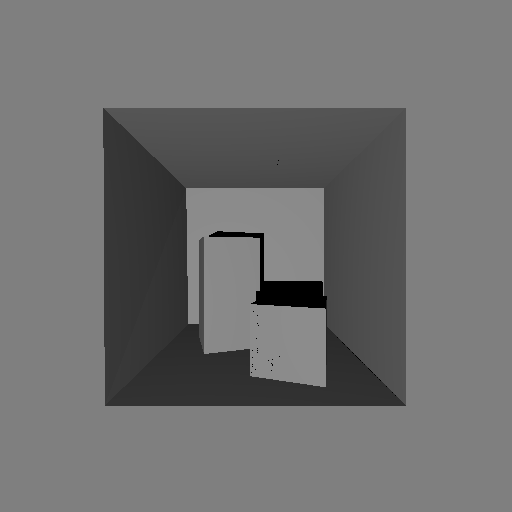
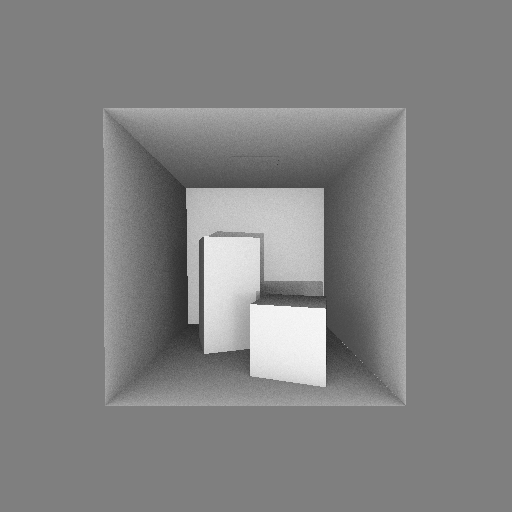
tp3: update L_i computation

Changed region(s): [[0.1875, 0.1875, 0.8125, 0.8125]]

diff --git a/projets/tp3.cpp b/projets/tp3.cpp
@@ -161,6 +161,59 @@ struct Scene
         return L_r;
     };
 
+
+    Color compute_L_r_sky(Hit hit, Color L_i) // Calcul de L_r, la lumière réfléchie par le point p        
+    {
+        // Compute global coordinates and normal
+        Triangle tri = triangles[hit.triangle_id];
+        Point p = { tri.p.x + hit.u * tri.e1.x + hit.v * tri.e2.x,
+                    tri.p.y + hit.u * tri.e1.y + hit.v * tri.e2.y,
+                    tri.p.z + hit.u * tri.e1.z + hit.v * tri.e2.z };
+        Vector n = normalize(cross(tri.e1, tri.e2));
+
+        // Compute L_r
+        Color L_r;
+        Color diffusion_color = tri.material.diffuse;
+        int N = 256;
+        
+        // Create orthonormal basis with n as Z-axis
+        Vector tangent = (std::abs(n.x) < 0.9f) ? normalize(cross(n, Vector(1, 0, 0))) : normalize(cross(n, Vector(0, 1, 0)));
+        Vector bitangent = normalize(cross(n, tangent));
+        
+        // Random number generator
+        static std::random_device hwseed;
+        static std::default_random_engine rng(hwseed());
+        std::uniform_real_distribution<float> uniform(0.0f, 1.0f);
+        
+        for (int i = 0; i < N; i++) {
+            // Uniform random sampling over hemisphere
+            float u1 = uniform(rng);
+            float u2 = uniform(rng);
+            
+            // Convert to spherical coordinates (cosine-weighted)
+            float cos_theta = std::sqrt(1.0f - u1 * u1);
+            float sin_theta = std::sqrt(u1 * u1);
+            float phi = 2.0f * M_PI * u2;
+            
+            // Generate direction in local hemisphere frame
+            Vector f = sin_theta * std::cos(phi) * tangent + 
+                    sin_theta * std::sin(phi) * bitangent + 
+                    cos_theta * n;
+            
+            Point p_eps = { p + epsilon_point(p) * normalize(n) };
+            Point q = { p_eps.x + f.x * 1000, p_eps.y + f.y * 1000, p_eps.z + f.z * 1000 };
+            bool V = visible(p_eps, q);
+            
+            // cos_theta is already part of the sampling, integrate it out
+            float dot_term = cos_theta; // Already incorporated from cosine-weighted sampling
+            
+            // Monte Carlo estimator: (1/N) * sum of samples
+            L_r = L_r + diffusion_color * V * L_i * dot_term;
+        }
+        
+        L_r = L_r / float(N);
+        return Color(L_r, 1);
+    }
 };
 
 struct Emission
@@ -246,9 +299,9 @@ int main( )
         Hit hit = scene.intersect(camera_origin, d, INFINITY);
         
         if (hit.t < INFINITY) {
-            //Color l_r = scene compute_L_r_sky(p, Color(1), sky, n, sun.p, scene);
+            Color l_r_sky = scene.compute_L_r_sky(hit, Color(1));
             Color l_r_sun = scene.compute_L_r(hit, sun.color, sun.p);
-            image(px, py) = srgb(l_r_sun);
+            image(px, py) = srgb(l_r_sun + l_r_sky);
         } else {
             image(px, py) = Color(0.5);
         }
